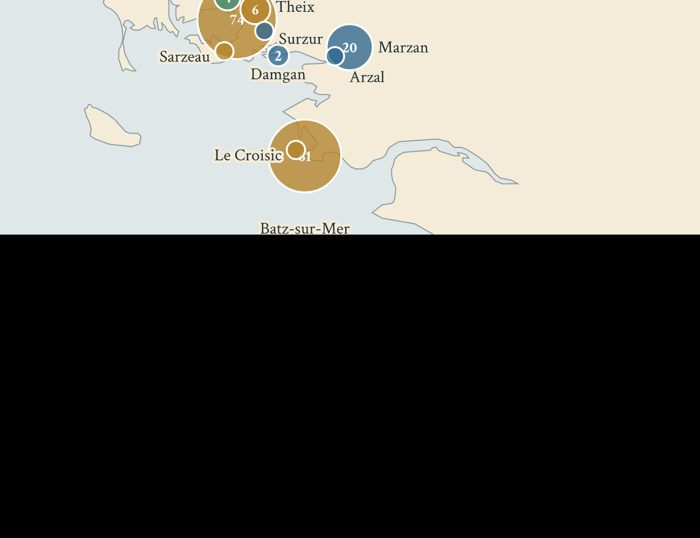
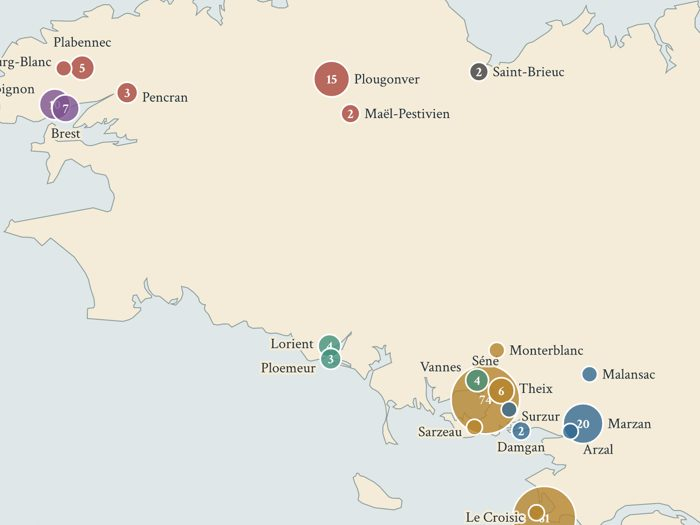
Accueil : vignettes de la carte et de la roue
Claude-Session: https://claude.ai/code/session_01X1VxLYgZRKkDKe6tbqHWhV

diff --git a/gens-de-mer/index.html b/gens-de-mer/index.html
@@ -39,7 +39,7 @@ footer{max-width:760px;margin:0 auto;padding:0 20px 40px;color:var(--muted);font
 
 .hero{text-align:center;padding:10px 0 6px}
 .hero p{color:#4b5763;font-size:1.1rem}
-.cards{display:grid;grid-template-columns:repeat(auto-fit,minmax(230px,1fr));gap:16px;margin:24px 0}
+.cards{display:grid;grid-template-columns:repeat(auto-fit,minmax(200px,1fr));gap:16px;margin:24px 0}
 .card{background:var(--card);border:1px solid var(--line);border-radius:10px;overflow:hidden;text-decoration:none;color:var(--ink);display:flex;flex-direction:column;transition:transform .15s}
 .card:hover,.card:focus-visible{transform:translateY(-2px);box-shadow:0 4px 14px rgba(0,0,0,.08)}
 .card img{margin:0;border-radius:0;width:100%;aspect-ratio:4/3;object-fit:cover}
